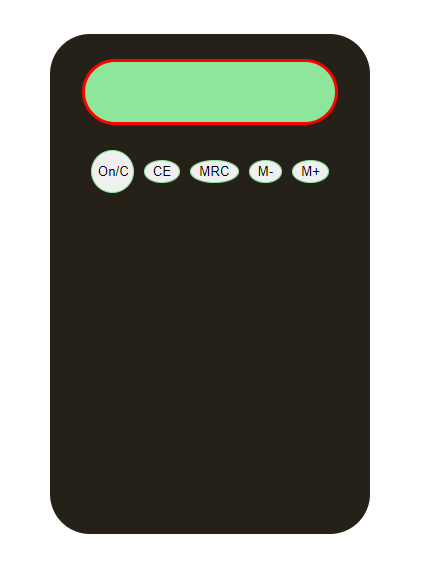
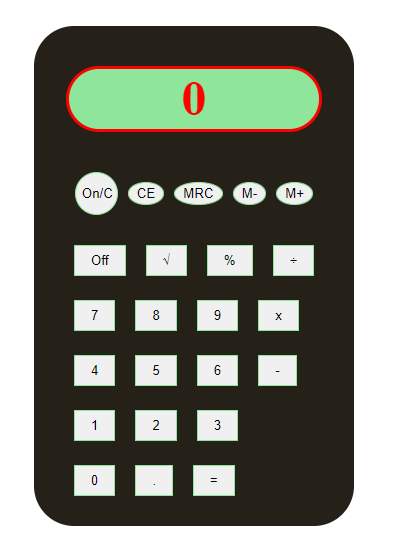
created buttons and off function

diff --git a/index.html b/index.html
@@ -1,8 +1,7 @@
 <!DOCTYPE html>
-<html lang="en">
+<html lang="pt-br">
 <head>
     <meta charset="UTF-8">
-    <meta http-equiv="X-UA-Compatible" content="IE=edge">
     <meta name="viewport" content="width=device-width, initial-scale=1.0">
     <title>Calculator in JS</title>
     <link rel="stylesheet" href="style.css">
@@ -23,8 +22,30 @@
                     <button class="mLess top-btn-others">M-</button>
                     <button class="mPlus top-btn-others">M+</button>
                 </div>
+                <br>
                 <div class="buttons-bottom">
-                    
+                    <button class="btnOff">Off</button>
+                    <button class="division">√</button>
+                    <button class="percent">%</button>
+                    <button class="division">÷</button>
+                    <br>
+                    <button class="">7</button>
+                    <button class="">8</button>
+                    <button class="">9</button>
+                    <button class="">x</button>
+                    <br>
+                    <button class="">4</button>
+                    <button class="">5</button>
+                    <button class="">6</button>
+                    <button class="">-</button>
+                    <br>
+                    <button class="">1</button>
+                    <button class="">2</button>
+                    <button class="">3</button>
+                    <br>
+                    <button class="">0</button>
+                    <button class="">.</button>
+                    <button class="">=</button>
                 </div>
             </div>
         </div>       

diff --git a/script.js b/script.js
@@ -5,7 +5,19 @@ const screenText = screen.querySelector("h1");
 
 const onC = document.querySelector("button.onC");
 const ce = document.querySelector("button.ce");
+const btnOff = document.querySelector("button.btnOff");
+console.log(btnOff);
 
+// console.log(buttonsCalc);
+
+// Pegar todos os botoes da calculadora
+const buttonsCalc = document.querySelectorAll("button");
+
+const btns = [...buttonsCalc];
+console.log(btns);
+
+
+    
 function toogleOnClear() {  // On ou Clear
   // Se estiver desligada, liga. Se estiver ligada, zera.
     if(!isOn) {
@@ -13,7 +25,7 @@ function toogleOnClear() {  // On ou Clear
     } 
     screenText.textContent = 0;
     return isOn;
-}
+} 
 
 function checkIsOn() {
     if(!isOn) {
@@ -22,9 +34,30 @@ function checkIsOn() {
     return true;
 }
 
+function offFunction() {
+    isOn = false;
+    screenText.textContent = "";
+}
+
 function ceFunction() {
     
 }
 
+function registerEvents(event) {
+    buttonsCalc.forEach(element => {
+        
+    });
+}
+
+
+
+// Fazer um map para percorrer os botoes de numeros
+btnOff.addEventListener("click", offFunction);
 onC.addEventListener("click", toogleOnClear);
 ce.addEventListener("click", ceFunction);
+
+btns.addEventListener("click", function(event){
+    console.log(event);
+});
+
+window.addEventListener("load", registerEvents);

diff --git a/style.css b/style.css
@@ -15,7 +15,7 @@
     border-radius: 2.5rem; 
     text-align: center;
     padding: 0 20px 10px;
-    margin: 25px auto;
+    margin: 40px auto;
 }
 
 .screen h1 {
@@ -35,13 +35,18 @@ button {
 
 .buttons-calc {
     display: flex;
-    flex-direction: row;
+    flex-direction: column;
     justify-content: center;
     align-items: center;
 }
 
 .buttons-top button {
-    margin: 0 3px;
+    margin: 0 3px;  
+}
+
+.buttons-bottom button {
+    padding: 7px 16px;
+    margin: 12px 8px;
 }
 
 button.onC {
